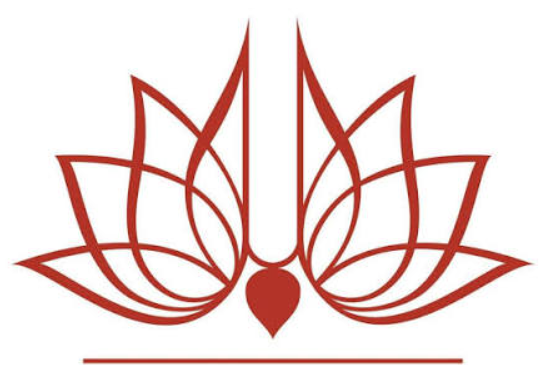
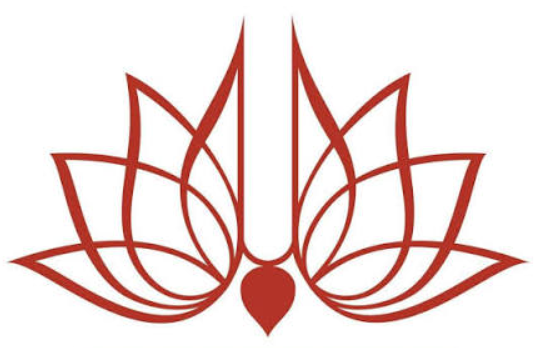
feat: Redirect root to organic, update title, default source to offline

Changed region(s): [[0.0, 0.0575, 0.976, 1.0]]

diff --git a/app/layout.tsx b/app/layout.tsx
@@ -22,7 +22,7 @@ const spaceMono = Space_Mono({
 });
 
 export const metadata: Metadata = {
-  title: "Focus Wapas Lao | 19 July Mega Youth Fest Dhanbad",
+  title: "Dhanbad's Biggest Youth Festival | 19 July Mega Youth Fest",
   description: "19 July — ek din jo focus wapas la dega. 2500+ log is saal join kar rahe hain Dhanbad ke sabse bade youth fest mein.",
 };
 

diff --git a/app/page.tsx b/app/page.tsx
@@ -1,5 +1,5 @@
 import { redirect } from "next/navigation";
 
 export default function Home() {
-  redirect("/angle1");
+  redirect("/common/organic");
 }

diff --git a/app/register/page.tsx b/app/register/page.tsx
@@ -8,7 +8,7 @@ import { load } from "@cashfreepayments/cashfree-js";
 function RegisterForm() {
   const router = useRouter();
   const searchParams = useSearchParams();
-  const source = searchParams.get("source");
+  const source = searchParams.get("source") || "offline";
   const basePrice = 20;
 
   const [bogoEnabled, setBogoEnabled] = useState(false);